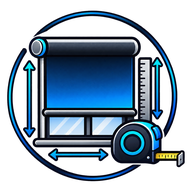
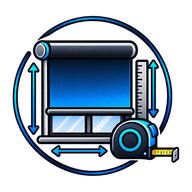
App instalable (PWA): manifest, service worker y aviso de versión nueva (HU-38)
- Manifest en español con el ícono propio (normal y adaptable para Android), pantalla completa.
- Service worker de Angular: guarda la app para abrir rápido; los datos de Supabase siempre se piden
  en línea (no se guardan en el teléfono).
- Aviso «Hay una versión nueva · Actualizar» cuando Vercel publica cambios; revisa al volver a abrir.
- Vercel: sin caché para los archivos del service worker y el manifest.

Claude-Session: https://claude.ai/code/session_01JDRw129kZUFSd2qaR3cpbM

diff --git a/src/app/core/pwa/update-banner.ts b/src/app/core/pwa/update-banner.ts
@@ -1,0 +1,49 @@
+import { Component, DestroyRef, inject, signal } from '@angular/core';
+import { takeUntilDestroyed } from '@angular/core/rxjs-interop';
+import { SwUpdate, VersionReadyEvent } from '@angular/service-worker';
+import { filter } from 'rxjs';
+
+/**
+ * Aviso de versión nueva (app instalada). La app guarda una copia para abrir rápido; cuando se
+ * publica una versión nueva en Vercel, se descarga en segundo plano y aquí se ofrece actualizar.
+ * También revisa al volver a abrir la app (por ejemplo, al sacarla del segundo plano).
+ */
+@Component({
+  selector: 'app-update-banner',
+  template: `
+    @if (ready()) {
+      <div class="bar" role="status" aria-live="polite">
+        <span>Hay una versión nueva de la app.</span>
+        <button type="button" (click)="reload()">Actualizar</button>
+      </div>
+    }
+  `,
+  styles: `
+    .bar { position: fixed; left: 50%; top: calc(10px + env(safe-area-inset-top)); transform: translateX(-50%); z-index: 100;
+      display: flex; align-items: center; gap: 12px; width: min(94vw, 460px); padding: 10px 12px 10px 16px; border-radius: 12px;
+      background: #142033; color: #fff; font-size: 14px; box-shadow: 0 8px 24px rgb(0 0 0 / 25%); }
+    .bar span { flex: 1; }
+    button { min-height: 40px; padding: 0 14px; border: 0; border-radius: 10px; background: #fff; color: #142033; font: 700 14px Inter, sans-serif; cursor: pointer; }
+  `,
+})
+export class UpdateBanner {
+  private readonly sw = inject(SwUpdate, { optional: true });
+  readonly ready = signal(false);
+
+  constructor() {
+    const sw = this.sw;
+    if (!sw?.isEnabled) return;
+    sw.versionUpdates
+      .pipe(filter((e): e is VersionReadyEvent => e.type === 'VERSION_READY'), takeUntilDestroyed(inject(DestroyRef)))
+      .subscribe(() => this.ready.set(true));
+    const check = () => {
+      if (document.visibilityState === 'visible') void sw.checkForUpdate().catch(() => undefined);
+    };
+    document.addEventListener('visibilitychange', check);
+    inject(DestroyRef).onDestroy(() => document.removeEventListener('visibilitychange', check));
+  }
+
+  reload(): void {
+    document.location.reload();
+  }
+}

diff --git a/src/index.html b/src/index.html
@@ -1,16 +1,22 @@
 <!doctype html>
 <html lang="es">
-<head>
-  <meta charset="utf-8">
-  <title>Medidas Roller</title>
-  <base href="/">
-  <meta name="viewport" content="width=device-width, initial-scale=1">
-  <meta name="theme-color" content="#0f2a4a">
-  <link rel="icon" type="image/x-icon" href="favicon.ico">
-  <link rel="icon" type="image/png" sizes="192x192" href="icon-192.png">
-  <link rel="apple-touch-icon" href="apple-touch-icon.png">
-</head>
-<body>
-  <app-root></app-root>
-</body>
+  <head>
+    <meta charset="utf-8" />
+    <title>Medidas Roller</title>
+    <base href="/" />
+    <meta name="viewport" content="width=device-width, initial-scale=1" />
+    <meta name="theme-color" content="#0f2a4a" />
+    <link rel="icon" type="image/x-icon" href="favicon.ico" />
+    <link rel="icon" type="image/png" sizes="192x192" href="icon-192.png" />
+    <link rel="apple-touch-icon" href="apple-touch-icon.png" />
+    <link rel="manifest" href="manifest.webmanifest" />
+    <meta name="apple-mobile-web-app-capable" content="yes" />
+    <meta name="mobile-web-app-capable" content="yes" />
+    <meta name="apple-mobile-web-app-title" content="Medidas Roller" />
+    <meta name="apple-mobile-web-app-status-bar-style" content="black-translucent" />
+  </head>
+  <body>
+    <app-root></app-root>
+    <noscript>Activa JavaScript para usar Medidas Roller.</noscript>
+  </body>
 </html>

diff --git a/src/app/app.config.ts b/src/app/app.config.ts
@@ -1,7 +1,15 @@
-import { ApplicationConfig, provideBrowserGlobalErrorListeners } from '@angular/core';
+import { ApplicationConfig, provideBrowserGlobalErrorListeners, isDevMode } from '@angular/core';
 import { provideRouter, withComponentInputBinding } from '@angular/router';
 import { routes } from './app.routes';
+import { provideServiceWorker } from '@angular/service-worker';
 
 export const appConfig: ApplicationConfig = {
-  providers: [provideBrowserGlobalErrorListeners(), provideRouter(routes, withComponentInputBinding())],
+  providers: [
+    provideBrowserGlobalErrorListeners(),
+    provideRouter(routes, withComponentInputBinding()),
+    provideServiceWorker('ngsw-worker.js', {
+      enabled: !isDevMode(),
+      registrationStrategy: 'registerWhenStable:30000',
+    }),
+  ],
 };

diff --git a/src/app/app.ts b/src/app/app.ts
@@ -1,11 +1,13 @@
 import { Component } from '@angular/core';
 import { RouterOutlet } from '@angular/router';
+import { UpdateBanner } from './core/pwa/update-banner';
 import { isSupabaseConfigured } from './data-access/supabase/supabase.client';
 
 @Component({
   selector: 'app-root',
-  imports: [RouterOutlet],
+  imports: [RouterOutlet, UpdateBanner],
   template: `
+    <app-update-banner />
     @if (configured) {
       <router-outlet />
     } @else {
